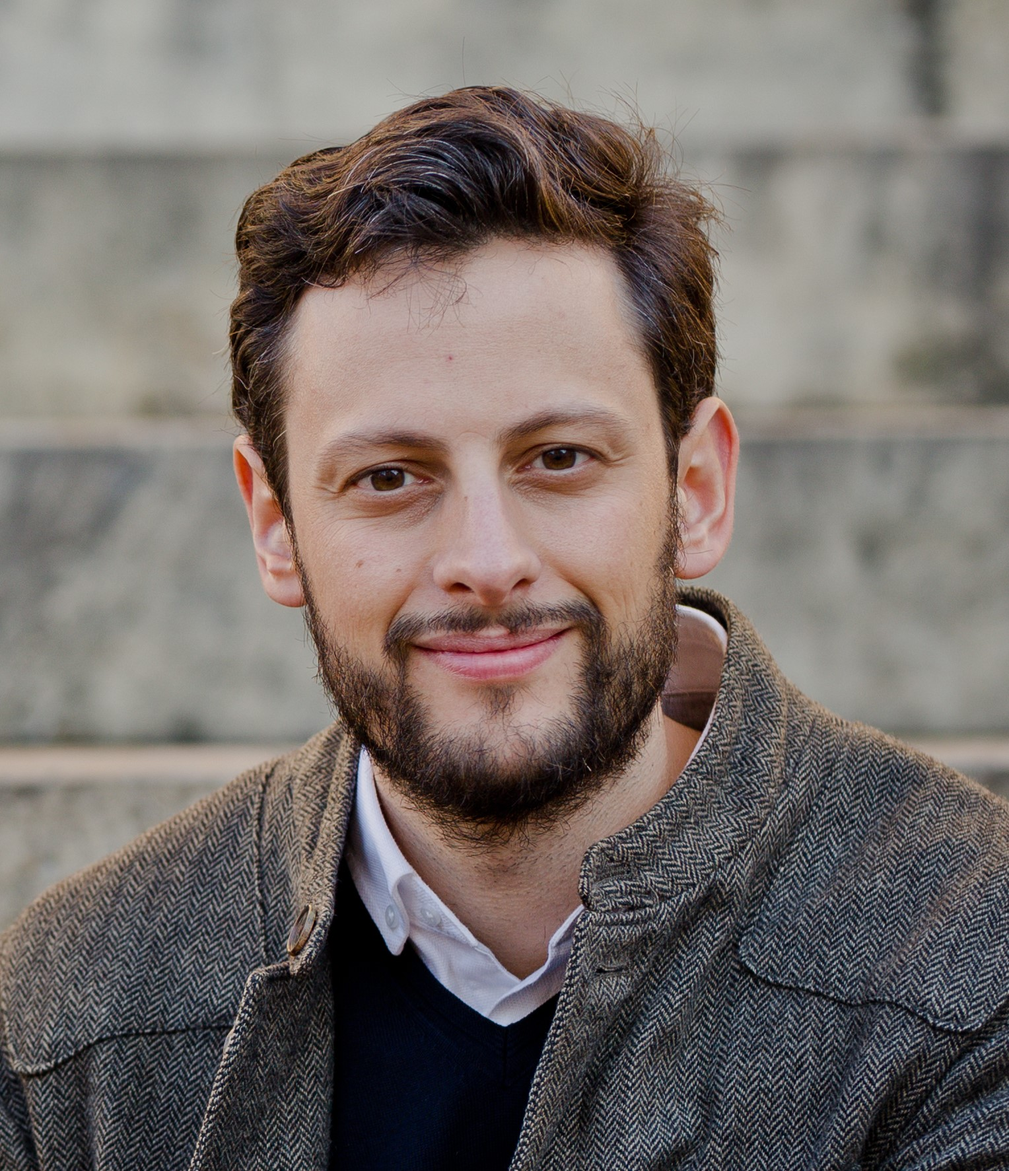
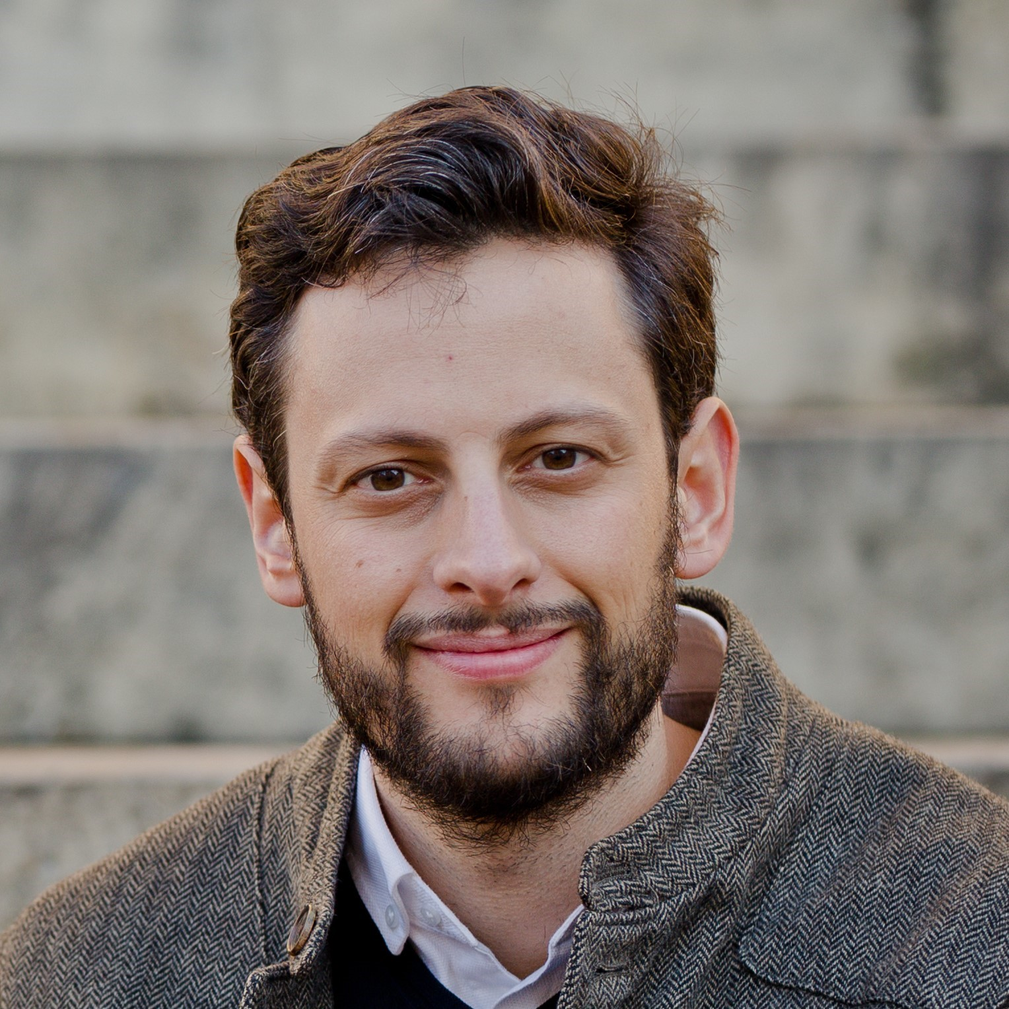
Added Advisor's Photos

diff --git a/Website/index.html b/Website/index.html
@@ -121,22 +121,22 @@
 
           <!-- Primeira linha -->
           <div class="team-member" style="text-align: center; margin: 0 10px 20px 10px;">
-            <img class="mx-auto rounded-circle" src="assets/png/john-doe.png" alt="..." style="width:9em; height:9em; border: 5px solid #2C3E50;" />
+            <img class="mx-auto rounded-circle" src="assets/profile_images/susana.jpg" alt="..." style="width:9em; height:9em; border: 5px solid #2C3E50;" />
             <h4 style="margin-top:20px">Susana Sargento</h4>
             <p class="text-muted">Advisor</p>
           </div>
           <div class="team-member" style="text-align: center; margin: 0 10px 20px 10px;">
-            <img class="mx-auto rounded-circle" src="assets/png/john-doe.png" alt="..." style="width:9em; height:9em; border: 5px solid #2C3E50;" />
+            <img class="mx-auto rounded-circle" src="assets/profile_images/pedro.png" alt="..." style="width:9em; height:9em; border: 5px solid #2C3E50;" />
             <h4 style="margin-top:20px">Pedro Rito</h4>
             <p class="text-muted">Advisor</p>
           </div>
           <div class="team-member" style="text-align: center; margin: 0 10px 20px 10px;">
-            <img class="mx-auto rounded-circle" src="assets/png/john-doe.png" alt="..." style="width:9em; height:9em; border: 5px solid #2C3E50;" />
+            <img class="mx-auto rounded-circle" src="assets/profile_images/duarte.jpg" alt="..." style="width:9em; height:9em; border: 5px solid #2C3E50;" />
             <h4 style="margin-top:20px">Duarte Raposo</h4>
             <p class="text-muted">Advisor</p>
           </div>
           <div class="team-member" style="text-align: center; margin: 0 10px 20px 10px;">
-            <img class="mx-auto rounded-circle" src="assets/png/john-doe.png" alt="..." style="width:9em; height:9em; border: 5px solid #2C3E50;" />
+            <img class="mx-auto rounded-circle" src="assets/profile_images/filipe.jpeg" alt="..." style="width:9em; height:9em; border: 5px solid #2C3E50;" />
             <h4 style="margin-top:20px">Filipe Cabral Pinto</h4>
             <p class="text-muted">Advisor</p>
           </div>
